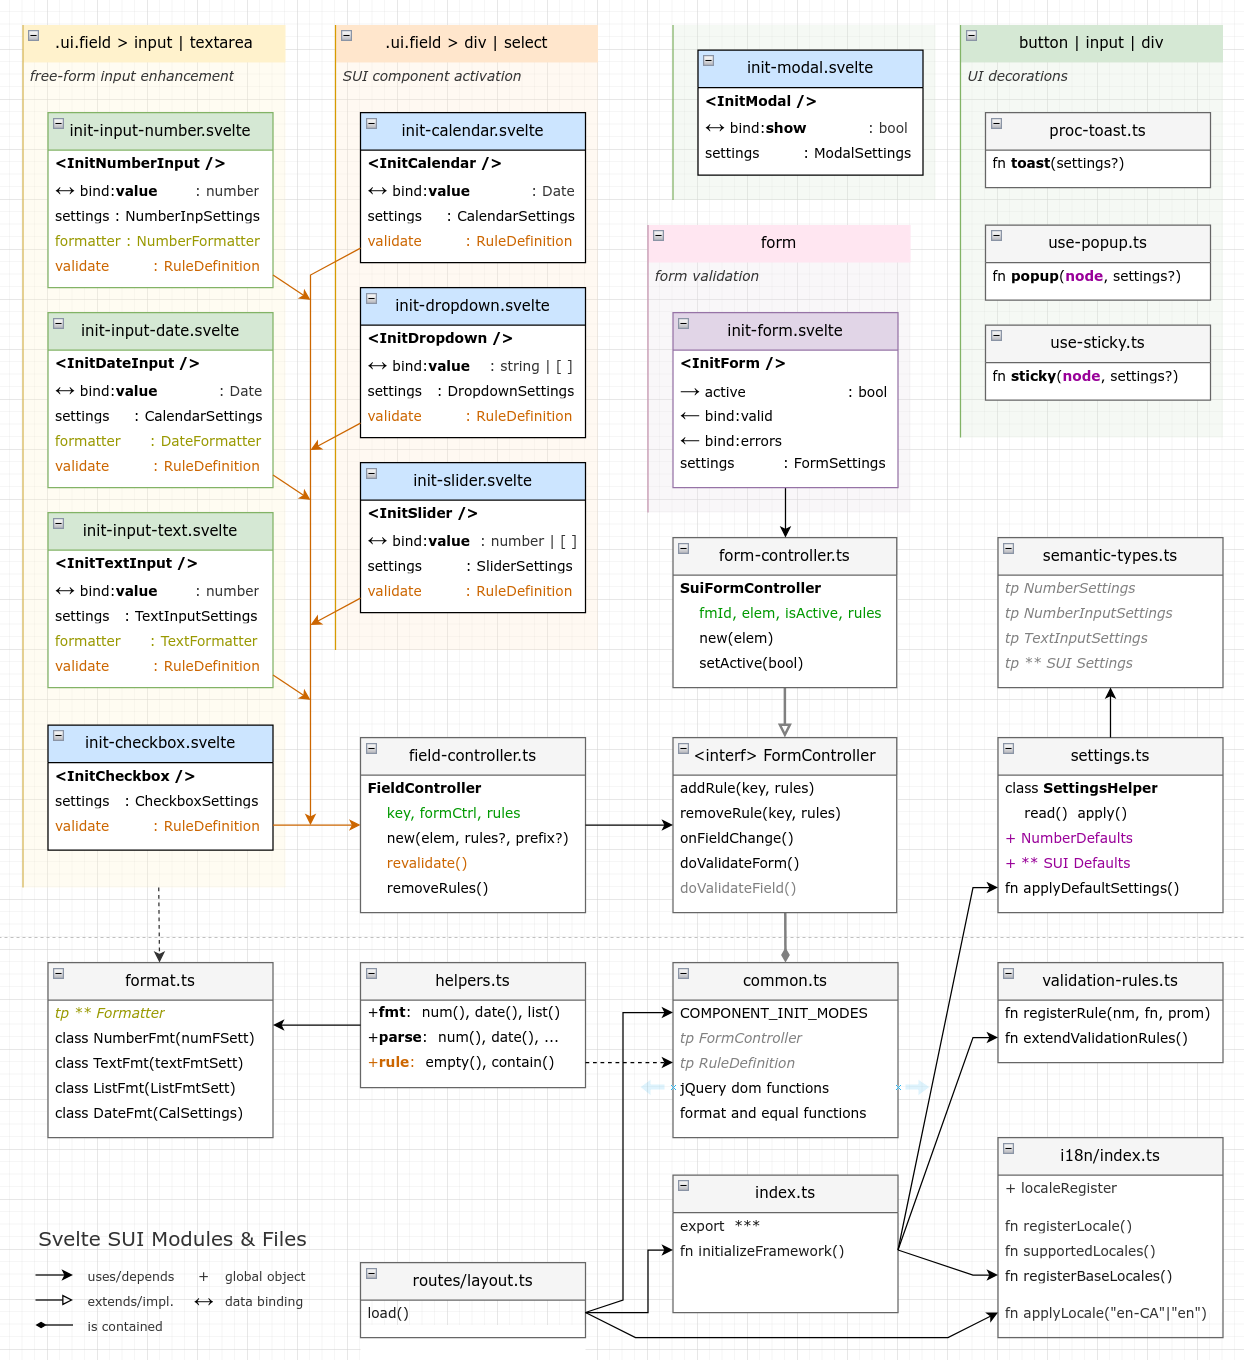
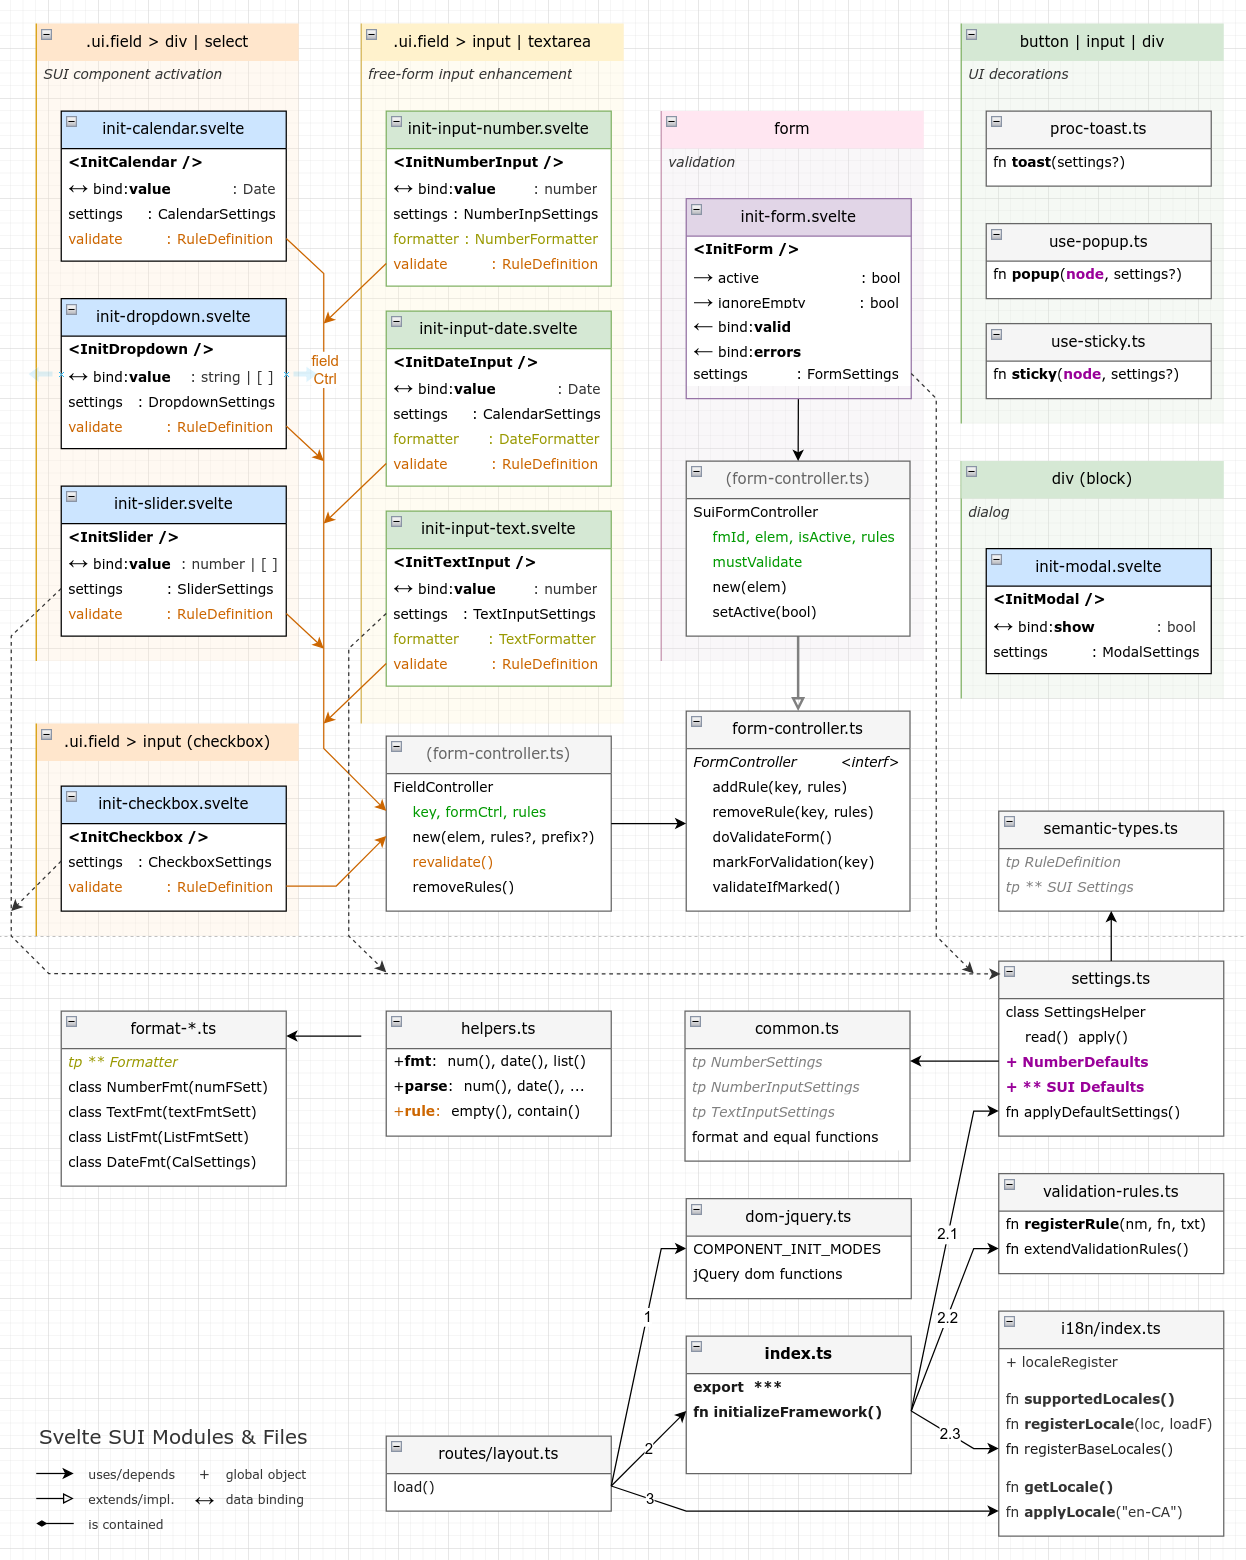
update module diagram, simplify findParentForm, fix github stats, downgrade publint

diff --git a/src/lib/data/dom-jquery.ts b/src/lib/data/dom-jquery.ts
@@ -147,14 +147,10 @@ export function copyParentKey(elem: JQueryApi, parent: JQueryApi, prefix: string
 
 /** If the elem doesn't have key, copy parent field identifier: id, name, data-validate.
  *  But only if the parent key exists. */
-function copyParentKeyIfExists(
-    elem: JQueryApi,
-    parent: JQueryApi,
-    prefix: string
-): string | undefined {
+function copyKeyIfExists(elem: JQueryApi, parent: JQueryApi, prefix: string): string | undefined {
     let key: string | undefined = getFieldKey(elem);
     if (!key) {
-        // assign new attribute
+        // get parent key
         const parentKey: string | undefined = getFieldKey(parent);
         if (parentKey) {
             key = `${prefix}_${parentKey}`;
@@ -164,47 +160,41 @@ function copyParentKeyIfExists(
     return key;
 }
 
-/** Perform lookup for known parent types, copy parent id if it can. */
+/** Perform lookup for known parent types or .field with id, copy parent id if it can. */
 export function ensureFieldKey(elem: JQueryApi): string {
     const key: string | undefined = getFieldKey(elem);
     if (key) {
         return key;
     }
     let parent: JQueryApi = elem.parent();
+
     while (parent && parent.length > 0) {
-        // first try the component
         if (parent.is(".ui.calendar")) {
-            const k: string | undefined = copyParentKeyIfExists(elem, parent, "f_calendar");
+            const k: string | undefined = copyKeyIfExists(elem, parent, "f_calendar");
+            if (k) return k;
+        } else if (parent.is(".ui.dropdown")) {
+            const k: string | undefined = copyKeyIfExists(elem, parent, "f_dropdown");
+            if (k) return k;
+        } else if (parent.is(".ui.checkbox")) {
+            const k: string | undefined = copyKeyIfExists(elem, parent, "f_checkbox");
+            if (k) return k;
+        } else if (parent.is(".ui.slider")) {
+            const k: string | undefined = copyKeyIfExists(elem, parent, "f_slider");
             if (k) return k;
         }
-        if (parent.is(".ui.dropdown")) {
-            const k: string | undefined = copyParentKeyIfExists(elem, parent, "f_dropdown");
-            if (k) return k;
-        }
-        if (parent.is(".ui.checkbox")) {
-            const k: string | undefined = copyParentKeyIfExists(elem, parent, "f_checkbox");
-            if (k) return k;
-        }
-        if (parent.is(".ui.slider")) {
-            const k: string | undefined = copyParentKeyIfExists(elem, parent, "f_slider");
-            if (k) return k;
-        }
-
-        // then field
         if (parent.is(".field")) {
-            const k: string | undefined = copyParentKeyIfExists(elem, parent, "f_field");
+            const k: string | undefined = copyKeyIfExists(elem, parent, "f_field");
             if (k) return k;
-            break;
+            break; // while
         }
-
-        // exit if component or field is not found in form
         if (parent.is("form")) {
-            break;
+            break; // while
         }
+        // continue going up in DOM hierarchy
         parent = parent.parent();
     }
 
-    // assign new attribute
+    // no key where found, assign new attribute
     return getOrAssignKey(elem, "f");
 }
 
@@ -212,13 +202,9 @@ export function ensureFieldKey(elem: JQueryApi): string {
 
 /** Search DOM tree for a parent form element  */
 export function findParentForm(elem: JQueryApi): JQueryApi | undefined {
-    let node: JQueryApi = elem;
-    do {
-        node = node.parent();
-    } while (node && !node.is("form.ui.form"));
-
-    if (node.is("form.ui.form")) {
-        return node;
+    const form: JQueryApi = elem.closest("form.ui.form");
+    if (form.length) {
+        return form;
     } else {
         return undefined;
     }

diff --git a/src/routes/select/+page.svelte b/src/routes/select/+page.svelte
@@ -15,6 +15,7 @@ import {
     InitTextInput,
     InitCheckbox,
     validateForm,
+    popup,
 } from "../../lib";
 // eslint-disable-next-line @typescript-eslint/naming-convention
 import ShowCode from "../show-code.svelte";
@@ -49,6 +50,8 @@ let json: string = $derived(
         gender: gender,
         agree: chb,
         test: test,
+        x: "----------------",
+        valid: valid,
         errors: errors,
     })
         .replace(/,"/g, ', "')
@@ -101,8 +104,6 @@ function toggleActive(): void {
                 bind:errors={errors}
                 settings={{
                     inline: true,
-                    autoCheckRequired: true,
-                    revalidate: true,
                     // fields: { xx3: "empty" },
                 }}
             />
@@ -110,7 +111,7 @@ function toggleActive(): void {
             {#if example === ""}
                 <div class="ui right rail" id="side">
                     <div class="ui segment sticky" use:sticky={{ offset: 10 }}>
-                        <!-- <h1>Data bindings</h1> -->
+                        <h2>Data bindings</h2>
                         <div class="ui message" style:font-family="monospace">
                             {json}
                         </div>
@@ -132,7 +133,12 @@ function toggleActive(): void {
                                 Validate
                             {/if}
                         </button>
-                        <button class="ui icon button" onclick={validateForm} aria-label="reload">
+                        <button
+                            class="ui icon button"
+                            onclick={validateForm}
+                            aria-label="re-validate"
+                            use:popup={{ content: "Re-validate" }}
+                        >
                             <i class="icon redo"></i>
                         </button>
                         <div class="ui message error"></div>
@@ -416,7 +422,7 @@ function toggleActive(): void {
                 <input />
                 <InitTextInput bind:value={test} validate={[rule.empty()]} />
             </div>
-            <div class="field">
+            <div class="field" id="xx">
                 <label for="_"> Test 2 </label>
                 <input bind:value={test} />
                 <InitTextInput validate={[rule.empty()]} />

diff --git a/src/lib/data/helpers.ts b/src/lib/data/helpers.ts
@@ -28,6 +28,10 @@ let num2Fmt: NumberFmt | null = null;
 let num6Fmt: NumberFmt | null = null;
 let moneyFmt: NumberFmt | null = null;
 
+/** Default formatter helper. Intended to be used from code of svelte components:
+ * ```
+ * Total: {fmt.money(value)}
+ * ``` */
 export const fmt: {
     date: (d: Date | undefined) => string;
     time: (d: Date | undefined) => string;
@@ -77,6 +81,7 @@ export const fmt: {
  dP
 */
 
+/** Default parser helper. Intended to be used from code. */
 export const parse: {
     date: (s: string) => Date | undefined;
     time: (s: string) => Date | undefined;
@@ -127,7 +132,7 @@ export const parse: {
                                                        dP
 */
 
-/** Autocomplete helper for validation rules */
+/** Autocomplete helper for validation rules. */
 /* prettier-ignore */
 // eslint-disable-next-line @typescript-eslint/typedef
 export const rule = {

diff --git a/src/lib/data/form-controller.ts b/src/lib/data/form-controller.ts
@@ -172,7 +172,7 @@ export class SuiFormController implements FormController {
     doValidateForm(): void {
         this.elem.form("validate form");
         // this.checkIfValid();
-        this.elem.form("is valid"); // TODO: is this required? remove?
+        // this.elem.form("is valid"); // FIXME: is this required? remove?
     }
 
     markForValidation(key: string): void {
@@ -296,6 +296,7 @@ export function validateForm(e: MouseEvent | KeyboardEvent | string): void {
     const ctrl: FormController = form.data(SVELTE_FORM_STORE) as FormController;
     ctrl.doValidateForm();
 }
+// FIXME: this doesn't work as error display elements are hidden if not active
 
 // function getFieldByKey(key: string): JQueryApi {
 //     let field = elem.find(`#${key}`);

diff --git a/src/routes/input/+page.svelte b/src/routes/input/+page.svelte
@@ -100,13 +100,13 @@ function toggleActive(): void {
                 bind:valid={valid}
                 settings={{
                     inline: true,
-                    autoCheckRequired: true,
                 }}
             />
 
             {#if example === ""}
                 <div class="ui right rail">
                     <div class="ui segment sticky" use:sticky={{ offset: 10 }}>
+                        <h2>Data bindings</h2>
                         <div class="ui message" style:font-family="monospace">
                             {json}
                         </div>

diff --git a/src/routes/date/+page.svelte b/src/routes/date/+page.svelte
@@ -74,13 +74,13 @@ function toggleActive(): void {
                 bind:valid={valid}
                 settings={{
                     inline: true,
-                    autoCheckRequired: true,
                 }}
             />
 
             {#if example === ""}
                 <div class="ui right rail">
                     <div class="ui segment sticky" use:sticky={{ offset: 10 }}>
+                        <h2>Data bindings</h2>
                         <div class="ui message" style:font-family="monospace">
                             {json}
                         </div>

diff --git a/src/lib/components/init-slider.svelte b/src/lib/components/init-slider.svelte
@@ -189,10 +189,6 @@ onMount(async () => {
     input = elem.find("input");
     copyParentKey(input, elem, FIELD_PREFIX);
 
-    // const sliderId: string | undefined = getFieldKey(elem);
-    // const inputId: string = `${FIELD_PREFIX}_${sliderId ? sliderId : nextUid()}`;
-    // elem.append(`<input type="hidden" data-validate="${inputId}"/>`);
-
     // apply validation rule if the rule is supplied in <InitSlider >
     fieldCtrl = new FieldController(input, validate);
 

diff --git a/src/lib/components/init-input-text.svelte b/src/lib/components/init-input-text.svelte
@@ -151,11 +151,11 @@ onMount(async () => {
 
     // push initial value into the Semantic UI element
     svelteToInput(value);
+    // // FIXME: check if this is required for inputs bound directly in input tag
     // if (value !== undefined) {
     //     svelteToInput(value);
     // } else {
     //     inputToSvelte(elem.val() as string);
-    //     // FIXME: check if this is required for inputs bound directly in input tag
     // }
 });
 
